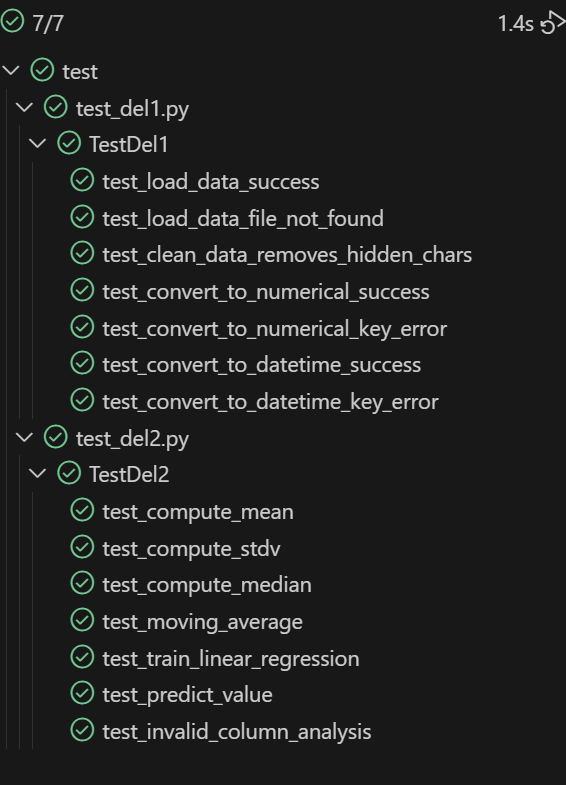
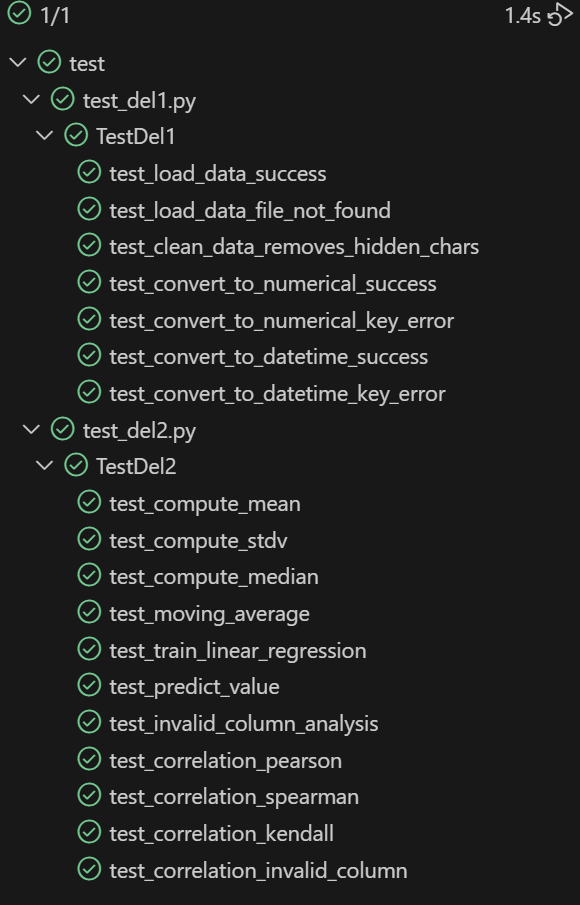
Lagt til utregning av korrelasjon

Changed region(s): [[0.0, 0.0, 0.841, 0.9783], [0.03, 0.642, 0.0601, 0.9478], [0.871, 0.0, 1.0, 0.0611]]

diff --git a/test/test_del2.py b/test/test_del2.py
@@ -11,7 +11,8 @@ class TestDel2(unittest.TestCase):
     def setUp(self):
         self.df = pd.DataFrame({
             "Temp": [1, 2, 3, 4, 5],
-            "Tid(norsk normaltid)": pd.date_range("2023-01-01", periods=5, freq="H")
+            "Tid(norsk normaltid)": pd.date_range("2023-01-01", periods=5, freq="H"),
+            "Vind": [5, 4, 3, 2, 1]
         })
         self.del2 = Del2(self.df)
 
@@ -44,5 +45,22 @@ class TestDel2(unittest.TestCase):
 
     def test_invalid_column_analysis(self):
         self.del2.simple_analysis("Nonexistent")
+
+    def test_correlation_pearson(self):
+        correlation = self.del2.correlation_analysis("Temp", "Vind", method="pearson")
+        self.assertAlmostEqual(correlation, -1.0)
+    
+    def test_correlation_spearman(self):
+        correlation = self.del2.correlation_analysis("Temp", "Vind", method="spearman")
+        self.assertAlmostEqual(correlation, -1.0)
+    
+    def test_correlation_kendall(self):
+        correlation = self.del2.correlation_analysis("Temp", "Vind", method="kendall")
+        self.assertAlmostEqual(correlation, -1.0)
+    
+    def test_correlation_invalid_column(self):
+        result = self.del2.correlation_analysis("Temp", "Vind", method="invalid")
+        self.assertIsNone(result)
+        
     
 unittest.TextTestRunner().run(unittest.TestLoader().loadTestsFromTestCase(TestDel2))

diff --git a/src/funksjoner.py b/src/funksjoner.py
@@ -150,5 +150,27 @@ class Del2():
         
         except Exception as e:
             print(f"Feil under prediksjon: {e}")
+
+    
+    def correlation_analysis(self, kolonne1: str, kolonne2: str, method: str = "pearson"):
+        if method not in ["pearson", "spearman", "kendall"]:
+            print(f"Ugyldig metode '{method}'. Bruk 'pearson', 'spearman' eller 'kendall'.")
+            return None
+        try:
+            # Beregner korrelasjon mellom de to kolonnene for den metoden som er valgt
+            if method == "pearson":
+                correlation = self.data[kolonne1].corr(self.data[kolonne2], method='pearson')
+            elif method == "spearman":
+                correlation = self.data[kolonne1].corr(self.data[kolonne2], method='spearman')
+            elif method == "kendall":
+                correlation = self.data[kolonne1].corr(self.data[kolonne2], method='kendall')
+            correlation = self.data[kolonne1].corr(self.data[kolonne2])
+            
+            print(f"Korrelasjon mellom '{kolonne1}' og '{kolonne2}' ({method}): {correlation:.2f}")
+            return correlation
+        except KeyError:
+            print(f"En eller begge kolonner finnes ikke i datasettet.")
+        except Exception as e:
+            print(f"Feil under korrelasjonsanalyse: {e}")
     
     

diff --git a/docs/README.md b/docs/README.md
@@ -11,26 +11,83 @@ Vi har benyttet oss av miljødata fra Yr og SeKlima, som begge drives av meteoro
 Dataen vi har hentet er en csv-fil lastet ned fra Norsk Klimaservicesenter. Denne ble hentet ved å spsifisere hvilke tidsoppløsning, værelementer, tidsrom og for hvilke stasjon. Vi valgte henoldsvis timer, høyeste vindkast og Lufttempratur, 01.01.2024-01.01.2025, Slettnes Fyr. 
 
 ### 2. Hvilke teknikker (f.eks. håndtering av CSV-filer, JSON-data) er valgt å bruke for å lese inn dataene, og hvordan påvirker disse valgene datakvaliteten og prosessen videre?
-Vi har valgt å bruke Pandas sin funksjonalitet i form av pandas.read_csv(). Denne er 	effektiv for å behandle CSV-filer i Python. Gjennom å bruke dette merket vi at pandas 	tolket informasjonen godt, og ga oss de svarene vi var ute etter. 
+Vi har valgt å bruke Pandas sin funksjonalitet i form av pandas.read_csv(). Denne er effektiv for å behandle CSV-filer i Python. Gjennom å bruke dette merket vi at pandas 	tolket informasjonen godt, og ga oss de svarene vi var ute etter. 
 
 ### 3.	Dersom det er brukt API-er, hvilke spesifikke API-er er valgt å bruke, og hva er de viktigste dataene som kan hentes fra disse kildene?
-Vi har valgt å ikke brukt APIer fordi vi benytter oss av historiske data fra 2024 som vi har hentet fra SeKlima. API er effektiv til data som kan oppdateres underveis, men siden vi bruker historiske data er ikke det nødvendig for oss å bruke API.
+Vi har valgt å ikke brukt APIer fordi vi benytter oss av historiske data fra 2024 som vi har hentet fra SeKlima. API er effektiv til data som kan oppdateres underveis, men siden vi bruker historiske data er ikke det nødvendig for oss å bruke API. Samtidig prøvde vi å samle samme data ved bruk av frost API for å vise hvordan dette kunne gjøres, men det viste seg at data for høyeste vindkast per time ikke fantes ved Slettnes fyr.
 
 ## Oppgave 3:
 
 ### 1.	Hvilke metoder vil du bruke for å identifisere og håndtere manglende verdier i datasettet?
-For å identifisere og håndtere manglende verdier i datasettet bruker vi Pandas.isnull(). Dette er en funksjon som sjekker etter manglende verdier i et datasett. Vi benyttet oss av denne da den gir oss en klar oversikt over hvor det er manglende data. 
+For å identifisere og håndtere manglende verdier i datasettet bruker vi Pandas.isnull(). Dette er en funksjon som sjekker etter manglende verdier i et datasett. Vi benyttet oss av denne da den gir oss en klar oversikt over hvor det er manglende data. Dersom vi hadde oppdaget manglende verdier i datasettet kunne vi brukt bevegelig gjennommsnitt (moving average) eller eksponensiell glatting (Exponential smoothing) for å glatte ut datasettet og bli kvitt uteliggere.
 
 ### 2.	Kan du gi et eksempel på hvordan du vil bruke list comprehensions for å manipulere dataene?
-Vi har brukt list comprehensions for å bytte komma med punktum i datasettet, slik at tallene tolkes som desimaltall. Vi har også brukt list comprehensions til å endre tiden i datasettet fra norsk normaltid til Python sitt datetime-format.
+Vi har brukt list comprehensions for å bytte komma med punktum i datasettet, slik at tallene tolkes som desimaltall. Vi har også brukt list comprehensions til å endre tiden i datasettet fra norsk normaltid til Python sitt datetime-format. Ellers kan list comprehensions brukes for behandling av de ulike kolonnene i datasettet.
 
 ### 3.	Hvordan kan Pandas SQL (sqldf) forbedre datamanipuleringen sammenlignet med tradisjonelle Pandas-operasjoner?
-Med Pandas SQL kan man bruke SQL-syntaks Pandas data som gjør det enklere å forstå informasjonen fra dataen. Sqldf kan gi kortere og mer oversiktlig kode som gjør det lettere å analysere og forstå store datasett. 
+Med Pandas SQL kan man bruke SQL-syntaks Pandas data som gjør det enklere å forstå informasjonen fra dataen. Sqldf kan gi kortere og mer oversiktlig kode som gjør det lettere å analysere og forstå store datasett. I dette prosjektet har vi brukt det for å kunne kun printe ut de to øverste linjene i csv filen for å analysere hvordan det er bygd opp slik at vi kunne håndtere datasettet.
 
 ### 4.	Hvilke spesifikke uregelmessigheter i dataene forventer du å møte, og hvordan planlegger du å håndtere dem?
-Vanlige problemer som vi forventer å møte kan være verdier som mangler og datatyper som er feil. Disse uregelmessighetene kan løses ved hjelp av list comprehensions og pandas-funksjoner som Pandas.isnull(). 
+Vanlige problemer som vi forventer å møte kan være verdier som mangler og datatyper som er feil. I tillegg kan det være at verdiene i datasettet har feil format. Disse uregelmessighetene kan løses ved hjelp av list comprehensions og innebygde funksjoner i python, numpy og pandas 
 
 
 
 # DEL 2
 
+## Oppgave 4
+
+### 1. Hvordan kan du bruke NumPy og Pandas til å beregne gjennomsnitt, median og standardavvik for de innsamlede dataene, og hvorfor er disse statistiske målene viktige?
+NumPy og Pandas gir raske og effektive måter å oppsummere store datasett på. Gjennomsnitt gir en generell verdi for datasettet, for eksempel gjennomsnittlig temperatur eller vindkast over perioden. Median brukes for å forstå den sentrale verdien, og er spesielt nyttig dersom datasettet har uteliggere eller skjevheter. Standardavvik forteller hvor mye verdiene sprer seg rundt gjennomsnittet, og gir innsikt i hvor stabile eller varierende forholdene er.
+Disse målene er viktige fordi de gir en grunnleggende statistisk forståelse av datasettet ditt og hjelper deg å identifisere mønstre, avvik eller behov for videre analyse.
+
+### 2. Kan du gi et eksempel på hvordan du vil implementere en enkel statistisk analyse for å undersøke sammenhengen mellom to variabler i datasettet?
+En enkel måte å undersøke sammenhengen mellom to variabler – for eksempel vindkast og lufttemperatur – er å beregne korrelasjonskoeffisienten. Den gir en verdi mellom -1 og 1 som forteller hvor sterkt og i hvilken retning to variabler er relatert. En verdi som går mot 0 betyr at det er lite eller ingen sammenheng. Verdier som går mot 1 eller -1 tyder på sterk korrelasjon.
+
+Ved vår beregning av korrelasjon får vi en verdi på -0.18. Dette viser at det er en liten sammenheng, men at det fortsatt har betydning. Den negative korrelasjonen tyder på at høyere verdier av vind henger sammen med lavere temperaturer.
+
+### 3. Hvordan planlegger du å håndtere eventuelle skjevheter i dataene under analysen, og hvilke metoder vil du bruke for å sikre at analysen er pålitelig?
+Skjevheter i data kan oppstå av mange grunner – uteliggere, målefeil, eller skjev fordeling. For å håndtere det har vi
+fjerne eller vurdere uteliggere med visualiseringer som boxplots og sikret at dataen vi har samlet er standardisert. Under utførelse av korrelasjonsanalysen brukte vi flere metoder (Pearson, Spearman, kendall) for å sjekke om resultatene er konsistente. Ved å bruke hele datasettet og tydelig dokumentasjon av fremgangsmåten kan vi styrke påliteligheten 
+
+
+### 4. Hvilke visualiseringer vil du lage for å støtte analysen din, og hvordan vil disse visualiseringene hjelpe deg med å formidle funnene dine?
+For å videre støtte analysen samt utføre analysen har vi laget vanlige tidsseriegrafer for å vise utviklingen av vindkast og temperatur over tid, spredningsdiagram (scatterplot) som viser mulig sammenheng (korrelasjon) mellom vind og temperatur.
+Ellers har vi laget et boxplot for å visualisere spredning og uteliggere, histogram for å vise fordelingen av hver variabel og heatmap for å se hvordan temperaturen er fordelt.
+Disse visualiseringene gjør det enklere å formidle funnene visuelt, oppdage trender, mønstre og avvik, og gjør det lettere for andre å forstå.
+
+
+## Oppgave 5
+
+### 1. Hvilke spesifikke typer visualiseringer planlegger du å lage for å representere endringer i luftkvalitet og temperaturdata, og hvorfor valgte du disse?
+For å vise endringer i dataene mine har vi valgt å bruke vanlige tidseriegrafer av det glidende gjennomsnittet (moving average) og heatmaps. Tidseriegrafer over lengre tid blir fort rotete og upversiktlig å analysere, derfor har vi brukt glidende gjennomsnitt for å glatte ut dataene og lettere kunne identifisere trender. Ved bruk av heatmaps kan vi også lettere se trender dag for dag, men også time for time.
+
+### 2. Hvordan kan Matplotlib og Seaborn brukes til å forbedre forståelsen av de analyserte dataene, og hvilke funksjoner i disse bibliotekene vil være mest nyttige?
+Matplotlib og Seaborn er kraftige visualiseringsverktøy for å gjøre analyser mer forståelige. Matplotlib gir deg full kontroll over hvordan figurer og akser presenteres. Den er fleksibel, og nyttig for klassiske grafer som linjeplott, stolpediagram og scatterplots. Seaborn bygger på Matplotlib og er designet for statistisk visualisering. Den gjør det lett å lage elegante grafer med mindre kode, og har innebygde funksjoner for automatisk gruppering, aggregering og bruk av fargepaletter.
+
+### 3. Hvordan vil du håndtere og visualisere manglende data i grafene dine for å sikre at de fortsatt er informative?
+Vi vil bruke moving average for å kunne gi en slags midlertidig fylling og oppnå en mer kontinuerlig fremstilling.
+
+### 4. Kan du beskrive prosessen for å lage interaktive visualiseringer med Widgets, Plotly eller Bokeh, og hvilke fordeler dette kan gi i forhold til statiske visualiseringer?
+Prosessen for å lage interaktive modeller var krevende da vi ikke har gjort dette før, men fortsatt veldig lærikt å kult. VI brukte Plotly fordi den brukes for å lage responsive grafer med hover-effekter, zoom, sliders og dropdown-meny. Da vi fikk lest oss opp fant vi ut at plotly kun trengte å lage dataserien for å så oppdatere oppsettet med en "range slider". ELlers valgte vi å gjøre modellene om til html filer fordi det var mer pålitelig og oversiktlig. Fordelene med interaktive modeller er at det lar oss utforske dataene selv og dermed blir det bedre for å presentere data.
+
+### 5. Hvordan vil du evaluere effektiviteten av visualiseringene dine i å formidle de viktigste funnene fra dataanalysen til et bredere publikum?
+Med de begrensede mengdene data vi jobbet med, har vi klart å presentere dataen
+
+## Oppgave 6
+
+### 1. Lag minst tre forskjellige typer visualiseringer (f.eks. linjediagrammer, søylediagrammer og scatterplots) for å representere endringer i luftkvalitet og temperaturdata over tid. Forklar valget av visualiseringstype for hver graf.
+
+### 3. Implementer visualiseringer ved hjelp av Matplotlib og Seaborn. Inkluder tilpassede akser, titler, og fargepaletter for å forbedre lesbarheten og estetikk.
+
+### 4. Demonstrer hvordan manglende data håndteres i visualiseringene. Lag en graf som viser hvordan manglende verdier påvirker datatrender, og diskuter hvordan dette kan påvirke tolkningen av dataene.
+
+### 5. Skriv en kort evaluering av de utviklede visualiseringene. Diskuter hvilke visualiseringer som var mest effektive for å formidle informasjon, og hvorfor. Reflekter over tilbakemeldinger fra medstudenter eller veileder.
+
+
+
+# Evaluering
+
+- Skulle hatt mer data og jobbe med
+- skulle brukt api for å kunne hente inn data, slik kunne dataen vært hentet frem til dagens dato, da ville vi kunne skjekket egen prognose opp mot prognoser fra yr eller storm. 
+- Linjer regressjon er ikke en veldig passende regresjonslinje for slik type data. Det ville passet bedre med mer sykliske regresjonslinjer som sinus, eller logistisk.
+- (kanskje bedre requirements.txt filen, den er ikke ryddet enda) 
